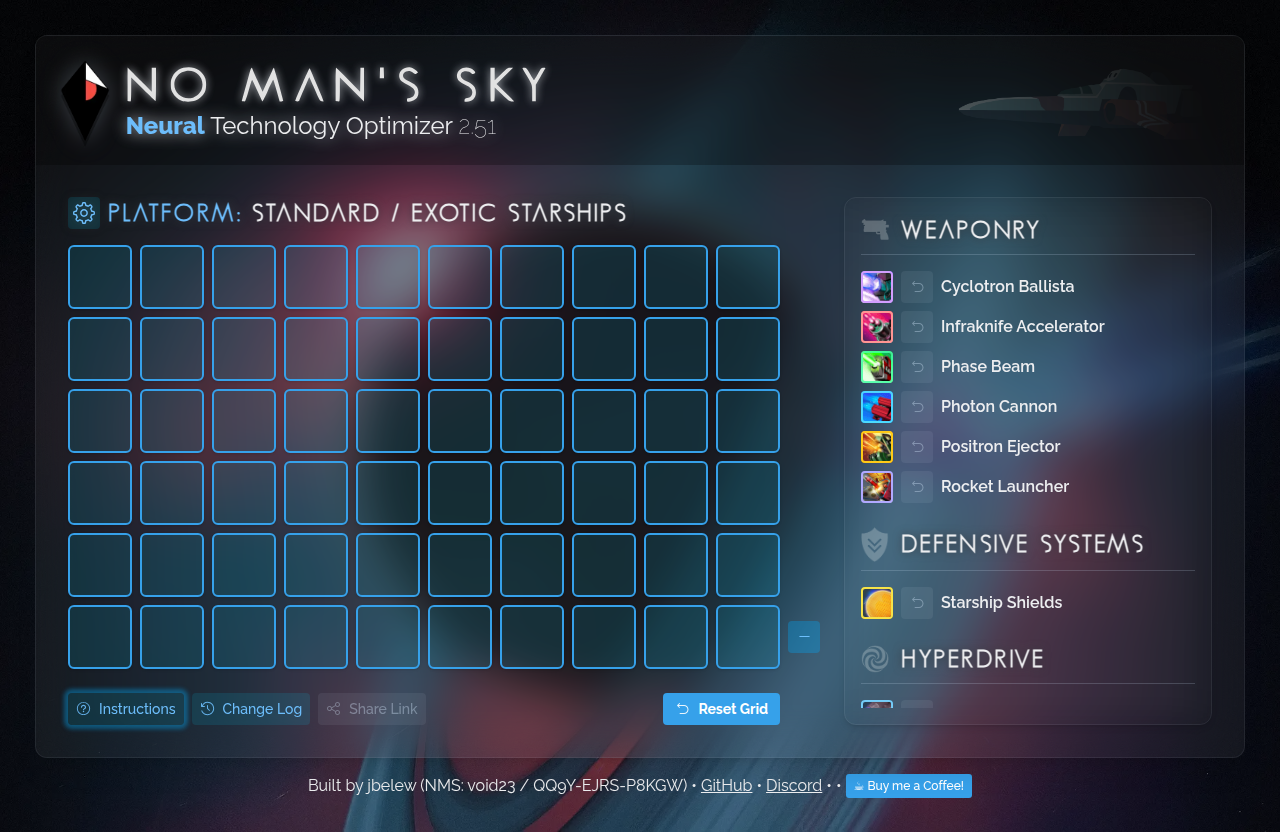
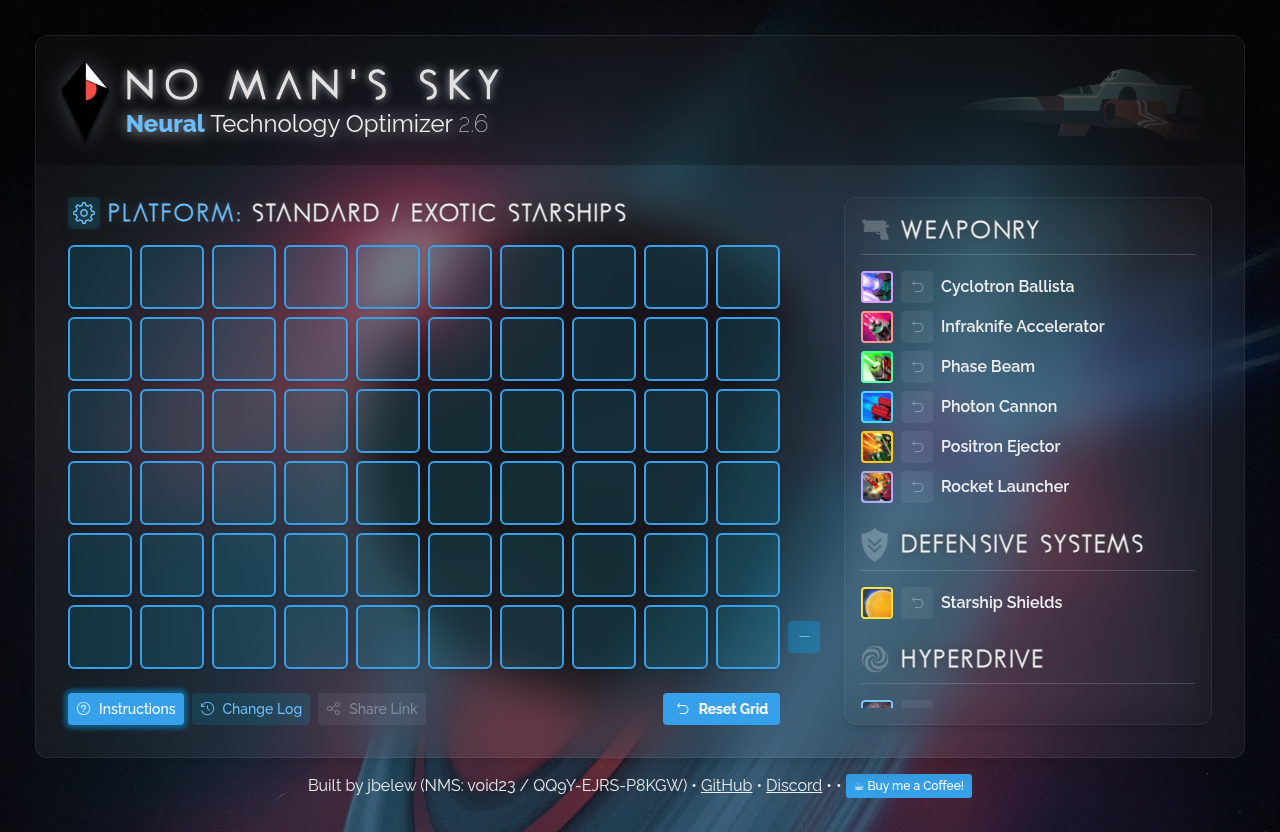
Box shadow fixes.

diff --git a/src/components/GridTableButtons/GridTableButtons.tsx b/src/components/GridTableButtons/GridTableButtons.tsx
@@ -31,7 +31,7 @@ const GridTableButtons: React.FC<GridTableButtonsProps> = ({
     <footer className="relative flex items-start gap-4 pt-4 sm:pt-6 gridTable__footer">
       <div className="flex-1 flex-nowrap"> {/* This div will contain the left-aligned buttons */}
         <Button
-          variant="soft"
+          variant={isFirstVisit ? "solid" : "soft"}
           className={`gridTable__button gridTable__button--instructions shadow-lg !mr-2 p-0 sm:!px-2 ${
             isFirstVisit ? 'button--glow' : ''
           }`}

diff --git a/src/index.css b/src/index.css
@@ -130,15 +130,15 @@ body::before {
 }
 
 .button--glow {
-  animation: pulseGlow 1s infinite alternate ease-in-out;
+  animation: buttonGlow 1s infinite alternate ease-in-out;
 }
 
-@keyframes pulseGlow {
+@keyframes buttonGlow {
   from {
     box-shadow: 0 0 4px 0px var(--accent-a4);
   }
   to {
-    box-shadow: 0 0 4px 4px var(--accent-a11);
+    box-shadow: 0 0 4px 4px var(--accent-a8);
   }
 }
 

diff --git a/src/components/GridCell/GridCell.css b/src/components/GridCell/GridCell.css
@@ -12,7 +12,7 @@
 }
 
 .gridCell__label {
-  filter: drop-shadow(0px 0px 4px black);
+  filter: drop-shadow(0px 0px 2px black);
   color: var(--gray-a12);
   font-family: "Acumin"; 
 }
